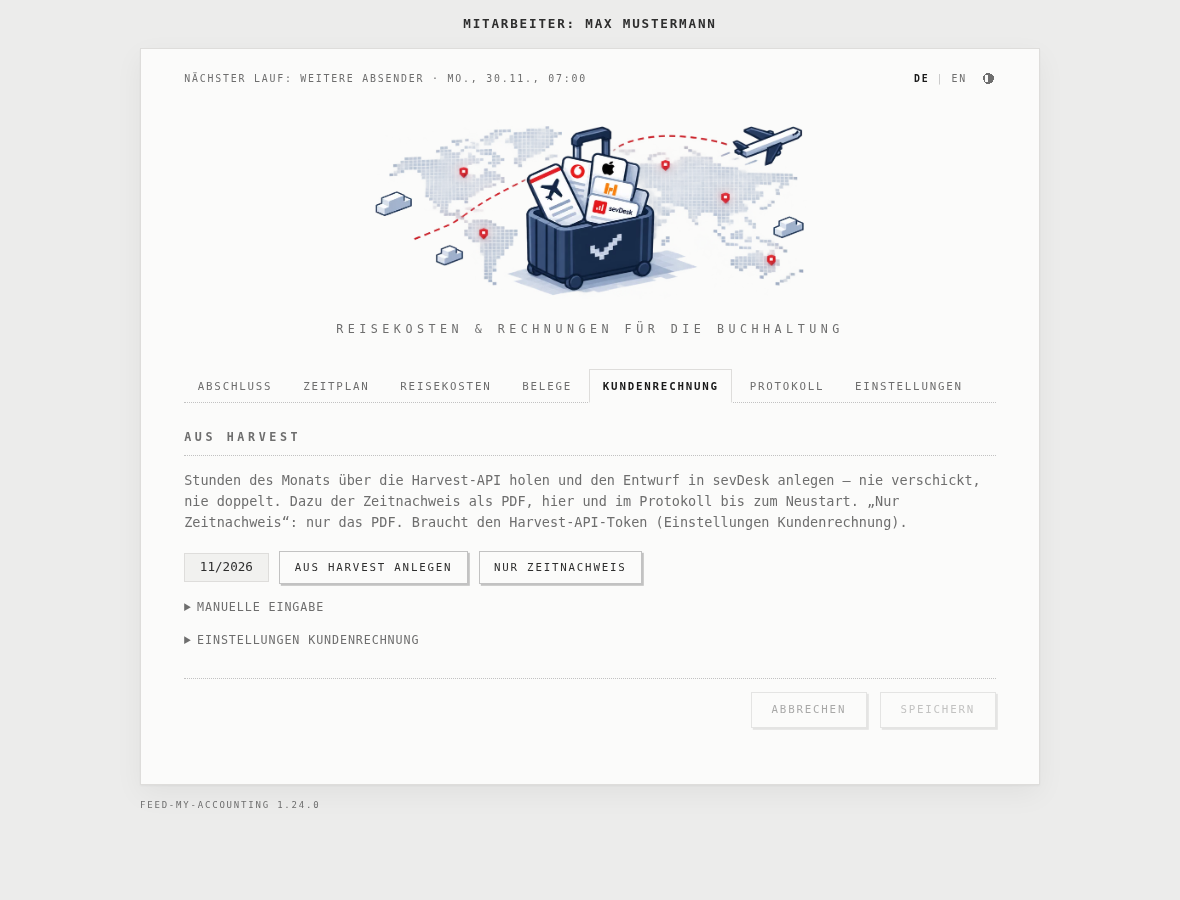
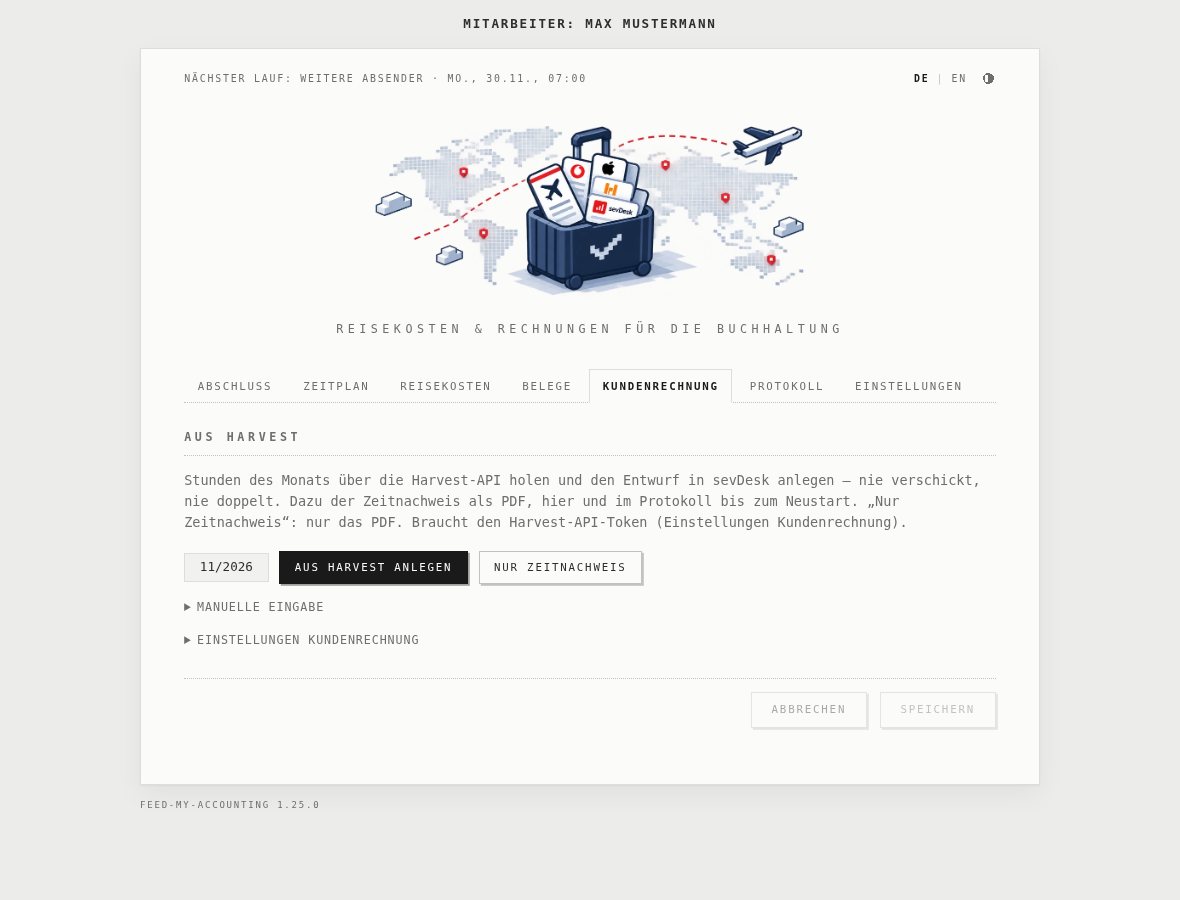
Buttons that send or transfer are solid: Aus Harvest anlegen, Test senden
Screenshots of Abschluss and Kundenrechnung anew; the README says the rule.

Claude-Session: https://claude.ai/code/session_01QaAjf99LPfJxqVnWJb8cvm

Changed region(s): [[0.2136, 0.5911, 0.3966, 0.6533]]

diff --git a/web/index.html b/web/index.html
@@ -140,7 +140,7 @@
       <p class="muted"><span lang="de">Stunden des Monats über die Harvest-API holen und den Entwurf in sevDesk anlegen — nie verschickt, nie doppelt. Dazu der Zeitnachweis als PDF, hier und im Protokoll bis zum Neustart. „Nur Zeitnachweis“: nur das PDF. Braucht den Harvest-API-Token (Einstellungen Kundenrechnung).</span><span lang="en">Get the month's hours from the Harvest API and create the draft in sevDesk — never sent, never twice. With it the work log as PDF, here and in the log until a restart. “Work log only”: just the PDF. Needs the Harvest API token (Invoice settings).</span></p>
       <div class="actions">
         <input id="harvest-month" class="month" inputmode="numeric" autocomplete="off" aria-label="Monat (M/JJJJ)" data-en-aria-label="Month (M/YYYY)">
-        <button type="button" id="harvest-run"><span lang="de">Aus Harvest anlegen</span><span lang="en">Create from Harvest</span></button>
+        <button type="button" id="harvest-run" class="strong"><span lang="de">Aus Harvest anlegen</span><span lang="en">Create from Harvest</span></button>
         <button type="button" id="harvest-worklog"><span lang="de">Nur Zeitnachweis</span><span lang="en">Work log only</span></button>
       </div>
       <div class="console" data-console="harvest" hidden></div>

diff --git a/web/app.js b/web/app.js
@@ -1390,7 +1390,7 @@ function renderSettings() {
     if (part === 'notify') {
       children.push(el('p', 'muted', T('Aufs Handy kommt: ein Lauf aus dem Zeitplan, der fehlschlägt, und am Abschlusstag, welche Belege im Vormonat noch fehlen – nur von Quellen mit Zeitplan, die weder etwas gesendet noch nachgesehen haben. Die Anwendung legst du unter pushover.net/apps an; der User-Key steht auf pushover.net nach der Anmeldung.',
         'To the phone: a scheduled run that fails, and on the closing day which receipts last month is still missing – only of sources with a schedule that neither sent nor looked. Create the application at pushover.net/apps; the user key is on pushover.net once logged in.')));
-      children.push(el('div', 'actions', button(T('Test senden', 'Send test'), '', async (b) => {
+      children.push(el('div', 'actions', button(T('Test senden', 'Send test'), 'strong', async (b) => {
         b.disabled = true;
         try {
           await api('POST', '/api/notify/test');

diff --git a/README.md b/README.md
@@ -120,7 +120,7 @@ feed-my-accounting serve          # http://<host>:8595
 
 `serve` starts a small web server — one Go binary, the page embedded — with a register card per area of work. Everything it does is also what the command line does; it reads `config.yaml` afresh on every request, so edits by hand count at once.
 
-Every setting is on the card where it is used. Nothing saves by itself: one red *Speichern* at the bottom of the page saves every change on every card — settings, schedule, Zuordnungen, gesperrte Tage — and says beside it what is not saved yet. The first click turns it into *Sicher?*, the second within four seconds saves. *Abbrechen* beside it drops what is not saved yet, everything as saved again.
+A button that sends or transfers something — a mail, the draft to sevDesk, a Pushover test — is solid black; one that only shows or edits here is light. Every setting is on the card where it is used. Nothing saves by itself: one red *Speichern* at the bottom of the page saves every change on every card — settings, schedule, Zuordnungen, gesperrte Tage — and says beside it what is not saved yet. The first click turns it into *Sicher?*, the second within four seconds saves. *Abbrechen* beside it drops what is not saved yet, everything as saved again.
 
 | Card | What it does |
 |------|--------------|
